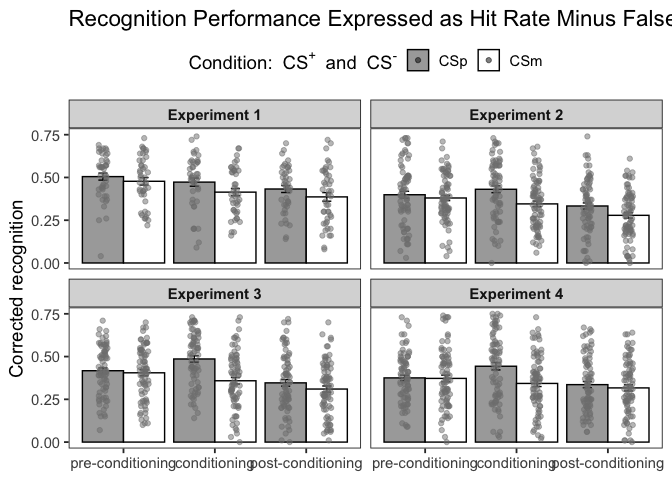
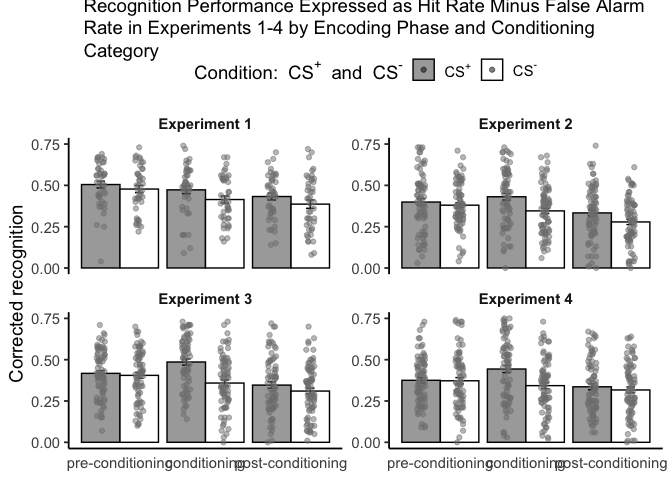
fixed using professor's comments

diff --git a/Projects/celineony/jungihong10.md b/Projects/celineony/jungihong10.md
@@ -1,14 +1,26 @@
-## My solution to Celine’s project
+## Introduction
 
-    ## Warning: Removed 42 rows containing non-finite outside the scale range
-    ## (`stat_summary()`).
-    ## Removed 42 rows containing non-finite outside the scale range
-    ## (`stat_summary()`).
+In this analysis, we explore recognition performance expressed as the
+hit rate minus the false alarm rate (corrected recognition) across four
+experiments. Participants underwent three phases: pre-conditioning,
+conditioning, and post-conditioning. The study contrasts two conditions,
+CS+ (Conditioned Stimulus Positive) and CS− (Conditioned Stimulus
+Negative), to evaluate their influence on recognition performance. The
+visualization provides insights into mean corrected recognition and
+individual participant variability for each experiment.
 
-    ## Warning: No shared levels found between `names(values)` of the manual scale and the
-    ## data's colour values.
+## Analysis and Visualization
 
-    ## Warning: Removed 42 rows containing missing values or values outside the scale range
-    ## (`geom_point()`).
+    ## # A tibble: 6 × 6
+    ##   study_id participant_id phase             condition   hit    fa
+    ##      <dbl>          <dbl> <chr>             <chr>     <dbl> <dbl>
+    ## 1        1              1 conditioning      CSm        0.63  0.21
+    ## 2        1              1 conditioning      CSp        0.72  0.14
+    ## 3        1              1 post-conditioning CSm        0.6   0.21
+    ## 4        1              1 post-conditioning CSp        0.67  0.14
+    ## 5        1              1 pre-conditioning  CSm        0.87  0.21
+    ## 6        1              1 pre-conditioning  CSp        0.7   0.14
 
-![Plot](plot.png)
+    ## Combined data has been written to 'combined_experiment_data.csv'.
+
+![](jungihong10_files/figure-markdown_strict/visualisation-1.png)
